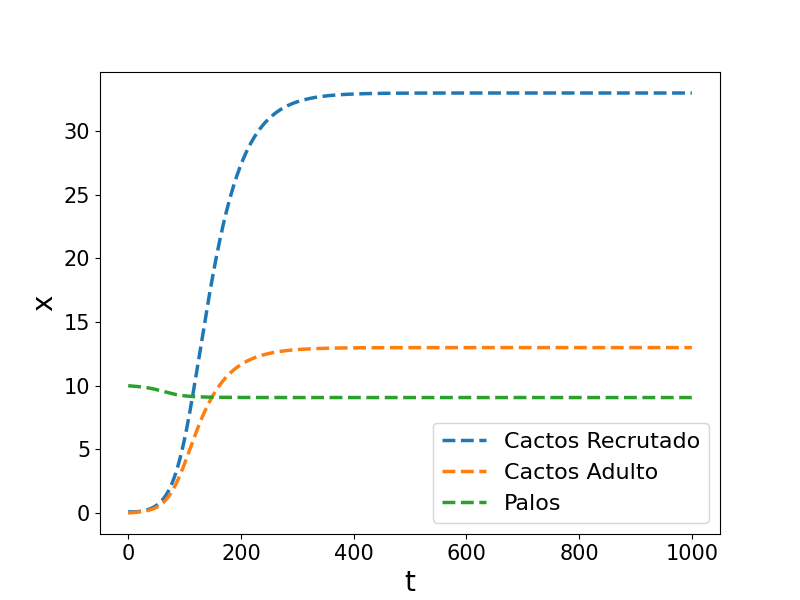
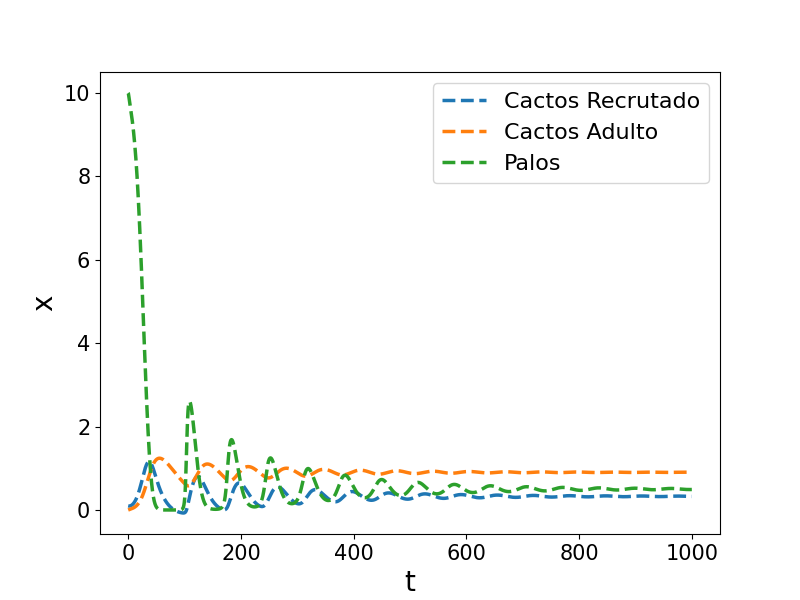
oscilando!

diff --git a/modelo_cactos_palos_full_1.py b/modelo_cactos_palos_full_1.py
@@ -3,20 +3,20 @@ from matplotlib.pyplot import *
 from scipy.integrate import odeint
 
 # parâmetros
-r1 = 0.2
-r2 = 0.5
-k1 = 10
-k2 = 20
-x_inicial_1 = 10
-x_inicial_2 = 10
+r1 = 0.009
+r2 = 3
+k1 = 0.009
+k2 = 10
+x_inicial_1 = 0.1
+x_inicial_2 = 0
 x_inicial_3 = 10
-taxa_transicao = 0.5
-cacto_death = 0.1
-taxa_predacao = 0.1
-taxa_facilitacao = 1
+taxa_transicao = 0.05
+cacto_death = 0.01
+taxa_predacao = 0
+taxa_facilitacao = 3
 
 # passos de tempo
-t = arange(0, 1000, 0.01)
+t = arange(0, 100, 0.01)
 
 def modele_facilitacao_amensalismo(
   x, t, r1, k1, r2, k2, taxa_transicao,
@@ -33,8 +33,6 @@ def modele_facilitacao_amensalismo(
   # Arbustos = 
   r2 * x[2] * (1 - (x[1] - taxa_predacao * x[1] / k2))
   ])
-
-#r2 * x[1] * ( 1 - x[1] / k2)
 
 
 modelo_integrado = odeint(modele_facilitacao_amensalismo, [x_inicial_1, x_inicial_2, x_inicial_3], t, (r1, k1, r2, k2, taxa_transicao, cacto_death, taxa_predacao, taxa_facilitacao))

diff --git a/modelo_cactos_palos_full_3.py b/modelo_cactos_palos_full_3.py
@@ -3,7 +3,7 @@ from matplotlib.pyplot import *
 from scipy.integrate import odeint
 
 # parâmetros
-taxa_associacao = 0.5 #c
+taxa_associacao = 2 #c
 r_cacto_adulto = 0.009 #r1
 taxa_facilitacao = 3 #f
 taxa_envelhecimento = 0.05 #alpha (escala de 10^-2)
@@ -12,7 +12,7 @@ morte_cacto_adulto = 0.01  #d
 r_arbusto = 3 #r2
 k_arbusto = 10 #k2
 taxa_saciedade = 1 #h
-taxa_predacao = 0.6 #m k
+taxa_predacao = 3 #m k
 
 # condições iniciais
 x_inicial_1 = 0.1
@@ -22,7 +22,7 @@ x_inicial_3 = 10
 # analise de pontos fixos
 
 # passos de tempo
-t = arange(0, 1000, 0.01)
+t = arange(0, 1000, 0.001)
 
 def modele_facilitacao_amensalismo(
     x, t,
